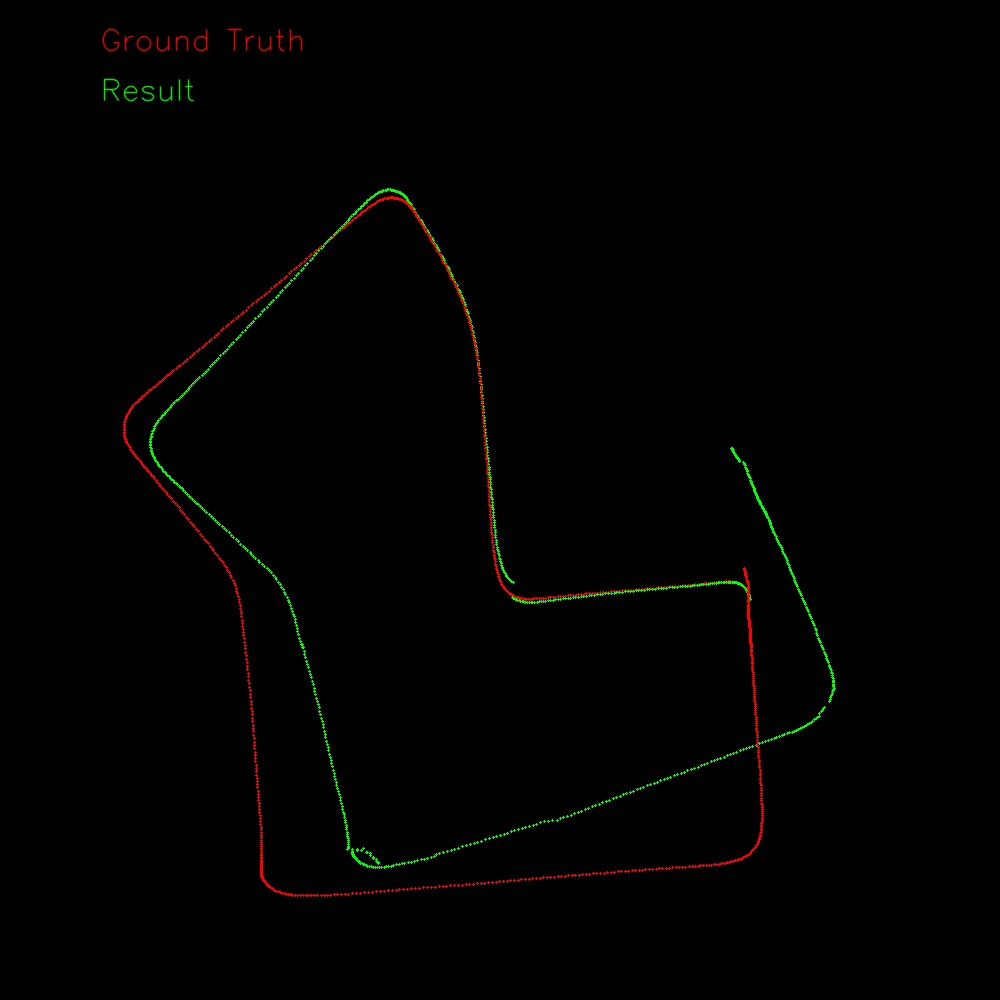
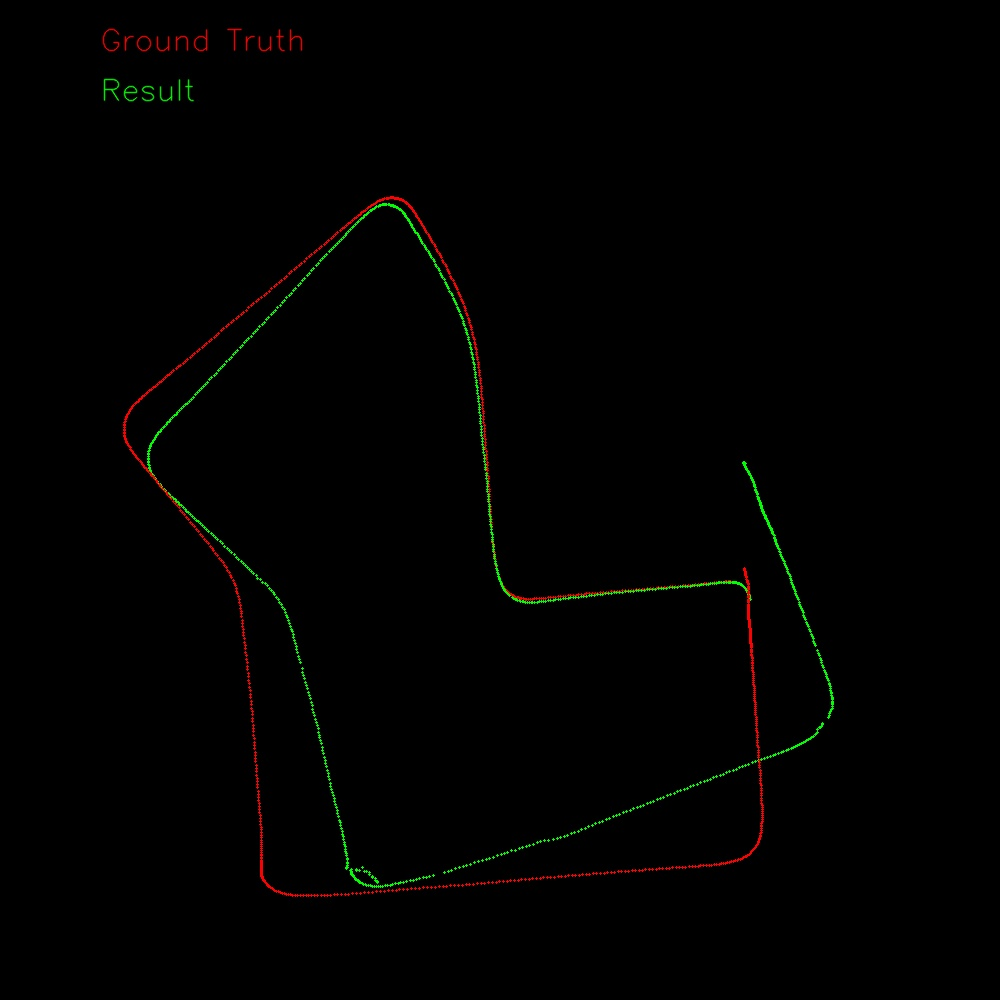
add baseline, keyframe

diff --git a/modules/visual_odometry/src/Triangulation.cpp b/modules/visual_odometry/src/Triangulation.cpp
@@ -36,6 +36,15 @@ namespace VO
             }
         }
         ifs.close();
+
+        cv::Mat K1, R1, t, K2, R2;
+        cv::decomposeProjectionMatrix(projectionLeft, K1, R1, t);
+        cv::decomposeProjectionMatrix(projectionRight, K2, R2, t);
+
+        cv::Mat translation;
+        translation = K1.inv() * projectionLeft(cv::Rect(3, 0, 1, 3)) - K2.inv() * projectionRight(cv::Rect(3, 0, 1, 3));
+
+        baseline = cv::norm(cv::Point3d(translation));
     }
 
     Triangulation::~Triangulation()
@@ -53,41 +62,52 @@ namespace VO
         std::vector<cv::DMatch> matches;
         feature.match(descriptorLeft, descriptorRight, matches);
         int matchSize = matches.size();
-        std::vector<cv::Point2d> matchedKeyPointRight;
-        matchedKeyPointRight.reserve(matchSize);
-        frame.keyPoints.reserve(matchSize);
-        frame.descriptors.reserve(matchSize);
-        int max_diff = 0;
+        std::vector<cv::Point2d> matchedKeyPointsLeft, matchedKeyPointsRight;
+        cv::Mat matchedDescriptorsLeft;
+        matchedKeyPointsLeft.reserve(matchSize);
+        matchedKeyPointsRight.reserve(matchSize);
+        matchedDescriptorsLeft.reserve(matchSize);
+
+
         for (int i = 0; i < matchSize; ++i)
         {
             int queryIdx = matches[i].queryIdx;
-            cv::Point2d left = keyPointLeft[queryIdx].pt;
-            cv::Point2d right = keyPointRight[matches[i].trainIdx].pt;
-            if(std::abs(left.y - right.y) > 10.0)
+            cv::Point2d leftPoint = keyPointLeft[queryIdx].pt;
+            cv::Point2d rightPoint = keyPointRight[matches[i].trainIdx].pt;
+            if(std::abs(leftPoint.y - rightPoint.y) > 10.0)
             {
                 continue;
             }
-            frame.keyPoints.push_back(left);
-            frame.descriptors.push_back(descriptorLeft.row(queryIdx));
-            matchedKeyPointRight.push_back(right);
+            matchedDescriptorsLeft.push_back(descriptorLeft.row(queryIdx));
+            matchedKeyPointsLeft.push_back(leftPoint);
+            matchedKeyPointsRight.push_back(rightPoint);
         }
 
         cv::Mat triangulatedPoints;
-        cv::triangulatePoints(projectionLeft, projectionRight, frame.keyPoints, matchedKeyPointRight, triangulatedPoints);
+        cv::triangulatePoints(projectionLeft, projectionRight, matchedKeyPointsLeft, matchedKeyPointsRight, triangulatedPoints);
 
         frame.points3D.reserve(matchSize);
-        for(int i = 0; i < matchSize; ++i)
+        frame.keyPoints.reserve(matchSize);
+        frame.descriptors.reserve(matchSize);
+        for(int i = 0; i < triangulatedPoints.cols; ++i)
         {
             cv::Point3d point3D;
             double w = triangulatedPoints.at<double>(3, i);
             point3D.x = triangulatedPoints.at<double>(0, i) / w;
             point3D.y = triangulatedPoints.at<double>(1, i) / w;
             point3D.z = triangulatedPoints.at<double>(2, i) / w;
+            if(cv::norm(point3D) > baseline * 1000.0)
+            {
+                continue;
+            }
+            frame.keyPoints.push_back(matchedKeyPointsLeft[i]);
+            frame.descriptors.push_back(matchedDescriptorsLeft.row(i));
             frame.points3D.push_back(point3D);
         }
 
         frame.pose = cv::Mat::eye(4, 4, CV_64F);
         frame.relativePose = cv::Mat::eye(4, 4, CV_64F);
+        std::cout << frame.descriptors.rows << frame.points3D.size() << frame.keyPoints.size() << std::endl;
         return frame;
     }
 };

diff --git a/modules/visual_odometry/src/MotionEstimation.cpp b/modules/visual_odometry/src/MotionEstimation.cpp
@@ -41,28 +41,48 @@ namespace VO
         feature.match(frame1.descriptors, frame2.descriptors, matches);
         std::vector<cv::Point3d> matchedPoints3D_1;
         std::vector<cv::Point2d> matchedPoints2D_2;
+
+        double distance2DSum = 0.0;
         for (int i = 0; i < matches.size(); i++)
         {
             int queryIdx = matches[i].queryIdx;
             int trainIdx = matches[i].trainIdx;
-            double distance = cv::norm(frame1.points3D[queryIdx] - frame2.points3D[trainIdx]);
-            if (distance > 100.0)
+            double distance3D = cv::norm(frame1.points3D[queryIdx] - frame2.points3D[trainIdx]);
+            double distance2D = cv::norm(frame1.keyPoints[queryIdx] - frame2.keyPoints[trainIdx]);
+            if (distance3D > 100.0)
             {
                 continue;
             }
             matchedPoints3D_1.push_back(frame1.points3D[queryIdx]);
             matchedPoints2D_2.push_back(frame2.keyPoints[trainIdx]);
+            distance2DSum += distance2D;
         }
 
         cv::Mat rvec, tvec;
         try
         {
-            cv::solvePnPRansac(matchedPoints3D_1, matchedPoints2D_2, cameraMatrix, cv::Mat(), rvec, tvec, 3.0);
+            cv::solvePnPRansac(matchedPoints3D_1, matchedPoints2D_2, cameraMatrix, cv::Mat(), rvec, tvec, 0.01);
         }
         catch (cv::Exception &e)
         {
             std::cerr << " solvePnP Error : " << e.what() << std::endl;
             frame2.pose = frame1.relativePose.clone() * frame1.pose.clone();
+            return -2;
+        }
+
+        std::vector<cv::Point2d> reprojectedPoints;
+        cv::projectPoints(matchedPoints3D_1, rvec, tvec, cameraMatrix, cv::Mat(), reprojectedPoints);
+
+        double reprojectionError = 0.0;
+        for(int i = 0; i < matchedPoints2D_2.size(); ++i)
+        {
+            reprojectionError += cv::norm(matchedPoints2D_2[i] - reprojectedPoints[i]);
+        }
+
+        if(distance2DSum > 6.0 * reprojectionError * matchedPoints2D_2.size())
+        {
+            frame2.pose = frame1.relativePose.clone() * frame1.pose.clone();
+            std::cout << "no keyFrame!" << std::endl;
             return -1;
         }
 
@@ -73,7 +93,7 @@ namespace VO
         }
         if (translationSum > 100.0)
         {
-            frame2.pose = frame1.relativePose.clone() * frame1.pose.clone();
+            frame2.pose = frame1.pose.clone();
             return -1;
         }
         
@@ -82,7 +102,7 @@ namespace VO
         double trace = cv::trace(rotationMatrix.t())[0];
         if (trace < 0.0)
         {
-            frame2.pose = frame1.relativePose.clone() * frame1.pose.clone();
+            frame2.pose = frame1.pose.clone();
             return -1;
         }
         cv::Mat relativePose = cv::Mat::eye(4, 4, CV_64F);

diff --git a/examples/kitti_odometry.cpp b/examples/kitti_odometry.cpp
@@ -61,9 +61,14 @@ int main()
         frameCurrent = triangulation.triangulate(imageLeft, imageRight);
 
         int ret = motionEstimation.motionEstimate(framePrev, frameCurrent);
-        std::cout << frameCurrent.pose << std::endl;
-        int x = static_cast<int>(frameCurrent.pose.at<double>(0, 3) / 0.3 + 750.0);
-        int z = static_cast<int>(-frameCurrent.pose.at<double>(2, 3) / 0.3 + 600.0);
+        if (ret != -1)
+        {
+            framePrev = frameCurrent;
+        }
+        std::cout << framePrev.pose << std::endl;
+
+        int x = static_cast<int>(framePrev.pose.at<double>(0, 3) / 0.3 + 750.0);
+        int z = static_cast<int>(-framePrev.pose.at<double>(2, 3) / 0.3 + 600.0);
 
         cv::circle(resultImage, cv::Point(x, z), 1, cv::Scalar(0, 255, 0), cv::FILLED);
 
@@ -74,7 +79,6 @@ int main()
         int xPoseInt = static_cast<int>(xPose / 0.3 + 750.0);
         int zPoseInt = static_cast<int>(-zPose / 0.3 + 600.0);
         cv::circle(resultImage, cv::Point(xPoseInt, zPoseInt), 1, cv::Scalar(0, 0, 255), cv::FILLED);
-        framePrev = frameCurrent;
 
         cv::imshow("result", resultImage);
         cv::waitKey(1);

diff --git a/modules/visual_odometry/include/visual_odometry/Triangulation.h b/modules/visual_odometry/include/visual_odometry/Triangulation.h
@@ -24,6 +24,7 @@ namespace VO
         Feature feature;
         cv::Mat projectionLeft;
         cv::Mat projectionRight;
+        double baseline;
 
     };
 };
